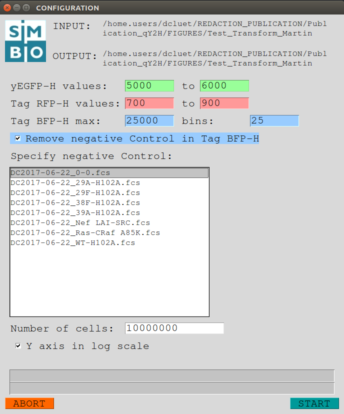
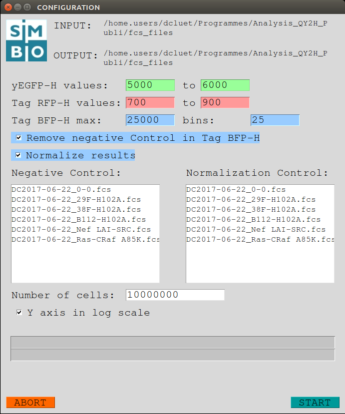
Update Readme

Changed region(s): [[0.0, 0.0, 1.0, 1.0], [0.2907, 0.029, 0.9593, 0.087]]

diff --git a/README.md b/README.md
@@ -177,7 +177,11 @@ The value `BFP bins` corresponds to the number of points you want to be displaye
 
 You can remove the background of the system by selecting `Remove negative Control`. In this case the negative control will not be displayed (as it becomes equal to 0). Deselect this option could be a good option to monitor the real contribution of the background in your experimental/analysis setup, especially for the weakest interactors.
 
-You need to specify which sample file corresponds to your negative control. In this example, the file `DC2017-06-22_0-0.fcs` corresponds to a qY2H experiment performed with the fluorescent empty (0) BD-Bait and AD-Prey fusion proteins.
+The program is by default set to standardize all experiments using a covalent interactor (B112-AD fused to the Lex-A BD). You can inactivate this otion by unchecking `Normalize results`.
+
+![Controls](/doc/Select_Controls.png)
+
+You need to specify which sample files correspond to your `negative` (0-0) and `normalization`  (B112-H102A) controls, even if no background substraction nor signal normalization is applied. In this example, the file `DC2017-06-22_0-0.fcs` corresponds to a qY2H experiment performed with the fluorescent empty (0) BD-Bait and AD-Prey fusion proteins.
 
 The `Number of cells` value corresponds to the maximum number of cells to be loaded from your file before doing the dual gating in the `AD-Prey GFP` and `BD-Bait RFP` channels.
 
@@ -189,7 +193,10 @@ When clicking `START`, the program proceeds to the analysis (only if a negative 
 
 During the analysis the two `Progress Bars` inform you which file (first bar) is currently processed, and which analysis step (second bar) is performed.
 
-Finally, the program displays the result of the analysis, with the main settings in the title.
+Finally, the program displays the result of the analysis, with the main settings in the title. Here we present the result with the following activated options:
+- **Remove negative Control**
+- **Normalize results**
+- **Y axis in log scale**
 
 ![Results](/doc/Results.png)
 
@@ -197,4 +204,8 @@ Click on `ABORT` to exit the program.
 
 *<span style="color:teal">5 Output files</span>*
 -
-The program generates two files. One `.csv` table containing the `mean BFP` value for each file (after substraction of the negative control, if selected), and one `.pdf` report file with the graph. This two files have a common unique prefix based on the date and time of analysis.  
+The program generates two files. One `.csv` table containing the `mean BFP` value for each file (after substraction of the negative control, if selected), and one `.pdf` report file with the graph. This two files have a common unique prefix based on the date and time of analysis.
+
+*<span style="color:teal">6 Example files</span>*
+-
+The flow-cytometry files used to perform this example are available [Here](https://www.google.com)   
